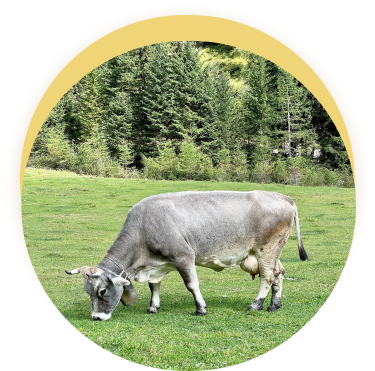
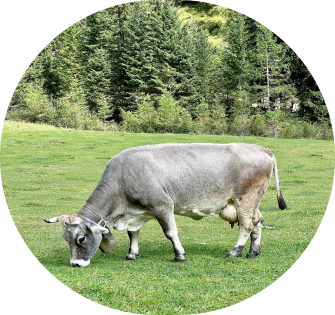
Полное изменение секции и абсолютное позиционирование коровы

diff --git a/src/sass/layout/_04-about.scss b/src/sass/layout/_04-about.scss
@@ -1,3 +1,9 @@
+.list {
+    list-style: none;
+    margin: 0;
+    padding: 0;
+}
+
 .about {
     padding-top: 60px;
 }
@@ -11,20 +17,15 @@
     color: var(--primary-text-color);
     margin-bottom: 12px;
 
-    @media screen and (min-width: 768px) and (max-width: 1199px) {
-        font-size: 22px;
-        line-height: 1.23;
-    }
-
     @media screen and (min-width: 1200px) {
         font-size: 30px;
-        line-height: 1.23;
     }
 }
 
 .about__title {
     margin-left: auto;
     margin-right: auto;
+    margin-bottom: 32px;
     font-family: 'Seymour One';
     font-weight: 400;
     font-size: 30px;
@@ -36,124 +37,171 @@
 
     @media screen and (max-width: 767px) {
         width: 210px;
-        margin-bottom: 36px;
     }
 
-    @media screen and (min-width: 768px) and (max-width: 1199px) {
+    @media screen and (min-width: 768px) {
+        font-size: 34px;
+        line-height: 1.26;
+        letter-spacing: 0.06em;
         margin-bottom: 40px;
     }
 
     @media screen and (min-width: 1200px) {
+        font-size: 36px;
+        line-height: 1.25;
+        letter-spacing: 0.06em;
         margin-bottom: 82px;
     }
 }
 
+
+
+
+
 .about__content {
-    @media screen and (min-width: 768px) {
+    @media screen and (max-width: 767px) {
         display: flex;
-        gap: 32px;
-        
+        flex-direction: column;
+        align-items: center;
+        justify-content: center;
     }
 
-    @media screen and (min-width: 1280px) {
-        gap: 100px;
+    @media screen and (min-width: 768px) {
+        display: flex;
+        justify-content: space-between;
         align-items: center;
+    }
+
+    @media screen and (min-width: 1200px) {
+        justify-content: flex-start;
     }
 }
 
 .about__image {
-    margin-left: auto;
-    margin-right: auto;
+    background-image: linear-gradient(180deg, rgba(248, 210, 78, 0.7), rgba(248, 210, 78, 0.7), #D9D9D9);
+    box-shadow: 0px 4.48583px 16.8218px rgba(153, 114, 23, 0.25);
+
     @media screen and (max-width: 767px) {
-        width: 100%;
         margin-bottom: 40px;
+        width: 278.19px;
+        height: 278.19px;
+        position: relative;
+        display: inline-block;
+        border-radius: 140.182px;
     }
-        @media screen and (min-width: 768px) {
-            width: 336px;
-        }
-    
-        @media screen and (min-width: 1200px) {
-            width: 500px;
-        }
+
+    @media screen and (min-width: 768px) {
+        width: 330px;
+        height: 330px;
+        border-radius: 165.879px;
+        margin-right: 32px;
+        position: relative;
+    }
+
+    @media screen and (min-width: 1200px) {
+        width: 500px;
+        height: 500px;
+        border-radius: 250px;
+        margin-right: 100px;
+        position: relative;
+    }
 }
-
-
-
-
 
 .about__foto {
-    display: block;
-    margin-left: auto;
-    margin-right: auto;
-    filter: drop-shadow(0px 4px 4px rgba(0, 0, 0, 0.25));
-
-    @media screen and (max-width: 479px) {
-        min-width: 278px;
+    @media screen and (max-width: 767px) {
+        position: absolute;
+        top: 21px;
+        width: 278.19px;
+        height: 278.19px;
     }
-         @media screen and (min-width: 768px) {
-             width: 336px;
-         }
-    
-         @media screen and (min-width: 1200px) {
-             width: 500px;
-         }
+
+    @media screen and (min-width: 768px) {
+        position: absolute;
+        top: 26px;
+        width: 330px;
+        height: 330px;
+    }
+
+    @media screen and (min-width: 1200px) {
+        position: absolute;
+        top: 39px;
+        width: 500px;
+        height: 500px;
+    }
 }
 
-.about__production {
+.about__list-text {
     @media screen and (max-width: 767px) {
-         width: 100%;
-        }
-    
-        @media screen and (min-width: 768px) {
-            width: 336px;
-        }
-    
-        @media screen and (min-width: 1280px) {
-            width: 463px;
-        }
+        display: flex;
+        flex-direction: column;
+        align-items: center;
+    }
+}
+
+.about__item-text {
+    @media screen and (max-width: 767px) {
+        width: 100%;
+    }
+
+    @media screen and (min-width: 768px) {
+        max-width: 334px;
+    }
+
+    @media screen and (min-width: 1200px) {
+        max-width: 463px;
+    }
 }
 
 .about__production-text {
-    font-weight: 400;
     font-size: 12px;
     line-height: 1.75;
     letter-spacing: 0.04em;
+
     color: var(--primary-text-color);
 
     @media screen and (max-width: 767px) {
-        margin-bottom: 4px;
+        text-align: center;
     }
 
-    @media screen and (min-width: 768px) and (max-width: 1199px) {
-        margin-bottom: 14px;
+    @media screen and (min-width: 768px) {
+        text-align: left;
     }
 
     @media screen and (min-width: 1200px) {
         font-size: 16px;
+        line-height: 1.76;
     }
 }
 
-.about__production-text-two {
+.about__text-first {
+    @media screen and (max-width: 767px) {
+        margin-bottom: 4px;
+    }
+
+    @media screen and (min-width: 768px) {
+        margin-bottom: 8px;
+    }
+
+}
+
+.about__text-second {
     @media screen and (max-width: 767px) {
         margin-bottom: 20px;
     }
 
-    @media screen and (min-width: 768px) and (max-width: 1199px) {
-        margin-bottom: 14px;
-    }
-
-    @media screen and (min-width: 1200px) {
-        margin-bottom: 40px;
+    @media screen and (min-width: 768px) {
+        margin-bottom: 8px;
     }
 }
 
-.about__production-text-last {
-    margin-bottom: 40px;
-
+.about__text-last {
     @media screen and (max-width: 767px) {
         display: none;
     }
 
+    @media screen and (min-width: 768px) {
+        margin-bottom: 48px;
+    }
 }
 
 .about__btn {

diff --git a/src/partials/04-about.html b/src/partials/04-about.html
@@ -2,8 +2,8 @@
   <div class="container">
     <p class="about__label">tradition and love</p>
     <h2 class="about__title">how it’s made?</h2>
-    <div class="about__content">
-      <div class="about__image">
+    <ul class="about__content list">
+      <li class="about__image">
         <picture>
           <source
             srcset="
@@ -32,31 +32,41 @@
             class="about__foto"
           />
         </picture>
-      </div>
-
-      <div class="about__production">
-        <p class="about__production-text">
-          Ice is a place where you will become not only a little happier, but
-          also healthier. Health is the main value for us, and we follow it when
-          creating our handmade desserts.
-        </p>
-        <p class="about__production-text about__production-text-two">
-          We use traditional recipes and 100% natural ingredients. Our products
-          are so natural that they can be given to children from the age of
-          three years. Sweets lovers can expect 55 types of ice cream, 15 types
-          of coffee and 23 milkshakes.
-        </p>
-        <p class="about__production-text about__production-text-last">
-          This is enough to choose ice cream and coffee for any mood!
-        </p>
-
-        <button data-modal-open type="button" class="about__btn">
-          Read more
-          <svg class="about__btn-icon" width="8" height="10">
-            <use href="../src/images/sprite/sprite.svg#icon-button-arrow"></use>
-          </svg>
-        </button>
-      </div>
-    </div>
+      </li>
+      <li class="about__production">
+        <ul class="about__list-text list">
+          <li class="about__item-text about__text-first">
+            <p class="about__production-text">
+              Ice is a place where you will become not only a little happier,
+              but also healthier. Health is the main value for us, and we follow
+              it when creating our handmade desserts.
+            </p>
+          </li>
+          <li class="about__item-text about__text-second">
+            <p class="about__production-text">
+              We use traditional recipes and 100% natural ingredients. Our
+              products are so natural that they can be given to children from
+              the age of three years. Sweets lovers can expect 55 types of ice
+              cream, 15 types of coffee and 23 milkshakes.
+            </p>
+          </li>
+          <li class="about__item-text about__text-last">
+            <p class="about__production-text">
+              This is enough to choose ice cream and coffee for any mood!
+            </p>
+          </li>
+          <li>
+            <button data-modal-open type="button" class="about__btn">
+              Read more
+              <svg class="about__btn-icon" width="8" height="10">
+                <use
+                  href="../src/images/sprite/sprite.svg#icon-button-arrow"
+                ></use>
+              </svg>
+            </button>
+          </li>
+        </ul>
+      </li>
+    </ul>
   </div>
 </section>
